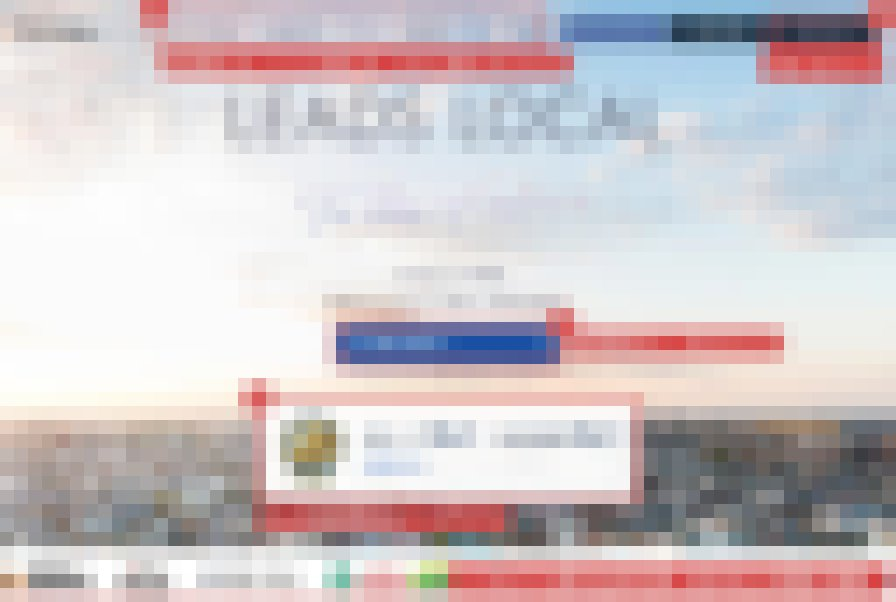
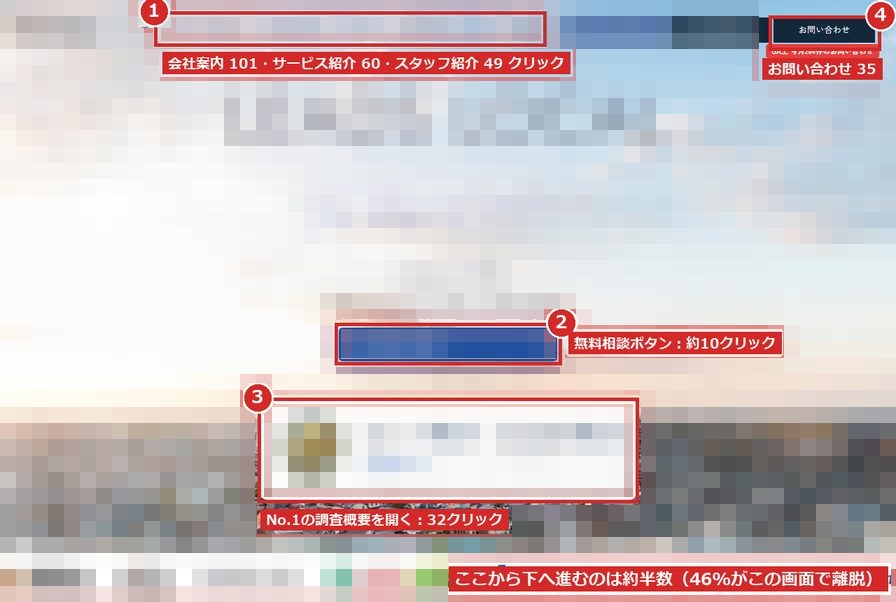
Fix screenshots: keep red frames and labels readable, mosaic page content only

diff --git a/README.md b/README.md
@@ -159,4 +159,4 @@ hp-auto-improvement-loop/
 ```
 
 **データ**：アクセス解析ツール 2026年10月17日取得／SFA 案件約1万件（同日）／Clarity 2026年9月19日〜10月18日（パソコン・ボット除外）／GA4 2025年1月〜2026年9月
-**注記**：画面は社名・ロゴ・本文が読めないようモザイク処理しています。
+**注記**：画面は社名・ロゴ・本文が読めないようモザイク処理しています（赤枠と注記の文字は残しています）。
